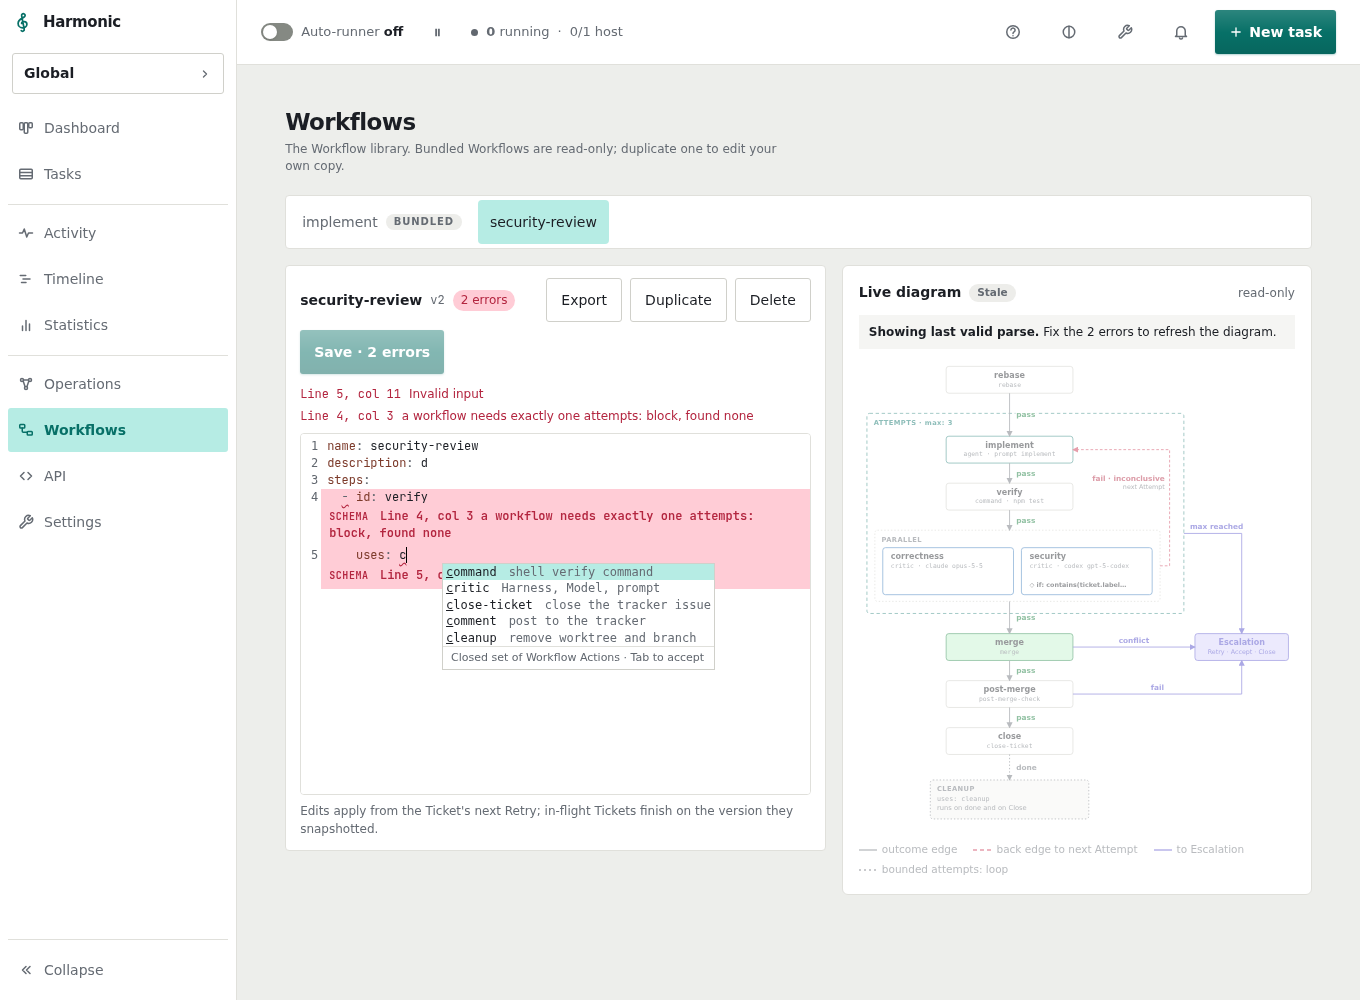
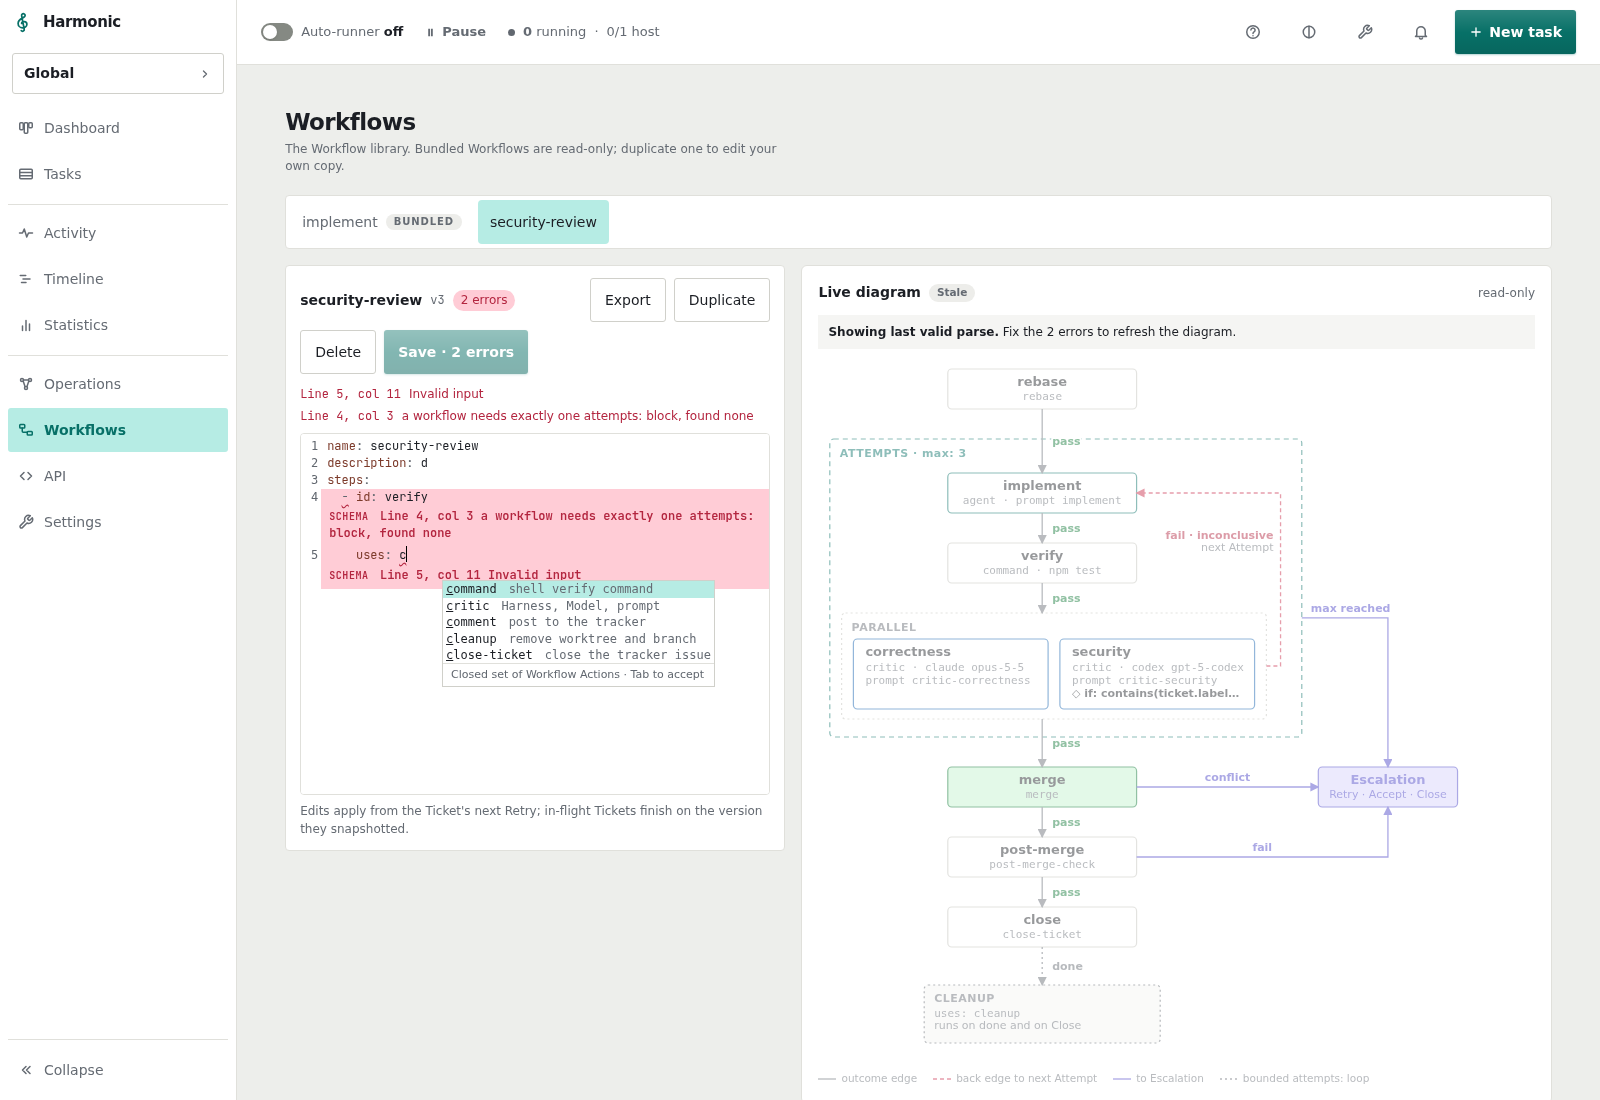
fix(workflows): diagram at natural size, critic prompt line, mockup completion order (#920)

diff --git a/web/src/components/WorkflowDiagram.tsx b/web/src/components/WorkflowDiagram.tsx
@@ -34,30 +34,30 @@ function NodeBox({ p }: { p: PlacedNode }) {
     <g data-node={node.id} data-kind={node.kind}>
       <rect x={x} y={y} width={width} height={height} rx={4} fill={fill} stroke={stroke} strokeDasharray={dash} strokeWidth={1.2} />
       {group ? (
-        <text x={x + 10} y={y + 18} fontSize={10} fontWeight={700} letterSpacing={0.6} fill={node.kind === 'attempts' ? 'var(--hm-accent)' : 'var(--hm-muted)'}>
+        <text x={x + 10} y={y + 18} fontSize={11} fontWeight={600} letterSpacing={0.5} fill={node.kind === 'attempts' ? 'var(--hm-accent)' : 'var(--hm-muted)'}>
           {node.kind === 'attempts' ? `ATTEMPTS${node.detail ? ` · ${node.detail}` : ''}` : 'PARALLEL'}
         </text>
       ) : node.kind === 'cleanup' ? (
         <>
-          <text x={x + 10} y={y + 17} fontSize={10} fontWeight={700} letterSpacing={0.6} fill="var(--hm-muted)">CLEANUP</text>
+          <text x={x + 10} y={y + 17} fontSize={11} fontWeight={600} letterSpacing={0.5} fill="var(--hm-muted)">CLEANUP</text>
           {(node.detail ?? '').split('\n').map((line, i) => (
-            <text key={line + i} x={x + 10} y={y + 32 + i * 12} fontSize={10} fontFamily={mono} fill="var(--hm-muted)">{line}</text>
+            <text key={line + i} x={x + 10} y={y + 32 + i * 12} fontSize={11} fontFamily={mono} fill="var(--hm-muted)">{line}</text>
           ))}
-          <text x={x + 10} y={y + 32 + Math.max(1, (node.detail ?? '').split('\n').length) * 12} fontSize={10} fill="var(--hm-faint)">runs on done and on Close</text>
+          <text x={x + 10} y={y + 32 + Math.max(1, (node.detail ?? '').split('\n').length) * 12} fontSize={11} fill="var(--hm-faint)">runs on done and on Close</text>
         </>
       ) : p.inParallel ? (
         <>
-          <text x={x + 12} y={y + 17} fontSize={12} fontWeight={700} fill="var(--hm-ink)">{node.label}</text>
+          <text x={x + 12} y={y + 17} fontSize={13} fontWeight={600} fill="var(--hm-ink)">{node.label}</text>
           {(node.detail ?? '').split('\n').map((line, i) => (
-            <text key={line + i} x={x + 12} y={y + 31 + i * 13} fontSize={9.5} fontFamily={mono} fill="var(--hm-muted)">{line}</text>
+            <text key={line + i} x={x + 12} y={y + 32 + i * 13} fontSize={11} fontFamily={mono} fill="var(--hm-muted)">{line}</text>
           ))}
-          {node.condition && <text x={x + 12} y={y + height - 12} fontSize={9.5} fontWeight={700} fill="var(--hm-ink)">{`◇ if: ${conditionLabel(node.condition)}`}</text>}
+          {node.condition && <text x={x + 12} y={y + height - 12} fontSize={11} fontWeight={700} fill="var(--hm-ink)">{`◇ if: ${conditionLabel(node.condition)}`}</text>}
         </>
       ) : (
         <>
-          <text x={cx} y={y + (node.detail ? 17 : height / 2 + 4)} textAnchor="middle" fontSize={12} fontWeight={700} fill={node.kind === 'escalation' ? 'var(--hm-await)' : 'var(--hm-ink)'}>{node.label}</text>
-          {node.detail && <text x={cx} y={y + 30} textAnchor="middle" fontSize={9.5} fontFamily={node.kind === 'escalation' ? undefined : mono} fill={node.kind === 'escalation' ? 'var(--hm-await)' : 'var(--hm-muted)'}>{node.detail}</text>}
-          {node.condition && <text x={cx} y={y + 44} textAnchor="middle" fontSize={9.5} fontWeight={700} fill="var(--hm-ink)">{`◇ if: ${conditionLabel(node.condition)}`}</text>}
+          <text x={cx} y={y + (node.detail ? 17 : height / 2 + 4)} textAnchor="middle" fontSize={13} fontWeight={600} fill={node.kind === 'escalation' ? 'var(--hm-await)' : 'var(--hm-ink)'}>{node.label}</text>
+          {node.detail && <text x={cx} y={y + 31} textAnchor="middle" fontSize={11} fontFamily={node.kind === 'escalation' ? undefined : mono} fill={node.kind === 'escalation' ? 'var(--hm-await)' : 'var(--hm-muted)'}>{node.detail}</text>}
+          {node.condition && <text x={cx} y={y + 44} textAnchor="middle" fontSize={11} fontWeight={700} fill="var(--hm-ink)">{`◇ if: ${conditionLabel(node.condition)}`}</text>}
         </>
       )}
     </g>
@@ -74,7 +74,7 @@ function EdgePath({ p }: { p: PlacedEdge }) {
     <g data-edge={`${p.edge.from}>${p.edge.to}`} data-kind={p.edge.kind}>
       <path d={d} fill="none" stroke={style.stroke} strokeDasharray={style.dash} strokeWidth={1.3} markerEnd={`url(#wfd-arrow-${p.edge.kind})`} />
       {p.label && <text x={p.label.x} y={p.label.y} textAnchor={p.label.anchor} fontSize={11} fontWeight={700} fill={style.text} style={HALO}>{p.label.text}</text>}
-      {p.subLabel && <text x={p.subLabel.x} y={p.subLabel.y} textAnchor={p.subLabel.anchor} fontSize={9.5} fill="var(--hm-muted)" style={HALO}>{p.subLabel.text}</text>}
+      {p.subLabel && <text x={p.subLabel.x} y={p.subLabel.y} textAnchor={p.subLabel.anchor} fontSize={11} fill="var(--hm-muted)" style={HALO}>{p.subLabel.text}</text>}
     </g>
   );
 }
@@ -140,7 +140,7 @@ export function WorkflowDiagram({ model, stale, errorCount }: { model: WorkflowD
         {!model ? (
           <p style={{ margin: 0, fontSize: 12, color: 'var(--hm-muted)' }}>Nothing to draw yet.</p>
         ) : ready ? (
-          <svg role="img" aria-label="Workflow step diagram graphic" width="100%" style={{ maxWidth: ready.width, display: 'block' }} viewBox={`0 0 ${ready.width} ${ready.height}`}>
+          <svg role="img" aria-label="Workflow step diagram graphic" width={ready.width} height={ready.height} style={{ display: 'block', flex: 'none' }} viewBox={`0 0 ${ready.width} ${ready.height}`}>
             <defs>
               {(Object.keys(EDGE_STYLE) as DiagramEdgeKind[]).map((k) => (
                 <marker key={k} id={`wfd-arrow-${k}`} viewBox="0 0 8 8" refX={7} refY={4} markerWidth={7} markerHeight={7} orient="auto">

diff --git a/tests/workflow-diagram.test.ts b/tests/workflow-diagram.test.ts
@@ -68,7 +68,7 @@ describe('buildWorkflowDiagram', () => {
       'merge:step:',
       'escalation:escalation:',
     ]);
-    expect(m.nodes.find((n) => n.id === 'review')?.detail).toBe('critic · claude claude-sonnet-5-5');
+    expect(m.nodes.find((n) => n.id === 'review')?.detail).toBe('critic · claude claude-sonnet-5-5\nprompt Review it.');
     expect(edgeKeys(IMPLEMENT)).toEqual([
       'rebase>build:outcome:pass',
       'build>verify:outcome:pass',
@@ -86,7 +86,7 @@ describe('buildWorkflowDiagram', () => {
     expect(group?.kind).toBe('parallel');
     expect(group?.parent).toBe('attempts');
     const security = m.nodes.find((n) => n.id === 'security');
-    expect(security).toMatchObject({ parent: 'checks', condition: "${{ contains(ticket.labels, 'security') }}", detail: 'critic · codex gpt-5-codex' });
+    expect(security).toMatchObject({ parent: 'checks', condition: "${{ contains(ticket.labels, 'security') }}", detail: 'critic · codex gpt-5-codex\nprompt critic-security' });
     expect(m.nodes.find((n) => n.id === 'verify')?.detail).toBe('command · npm test');
     const edges = edgeKeys(PARALLEL);
     expect(edges).toContain('verify>checks:outcome:pass');

diff --git a/src/domain/workflow-completion.ts b/src/domain/workflow-completion.ts
@@ -25,6 +25,12 @@ const ACTION_DETAIL: Record<(typeof WORKFLOW_ACTIONS)[number], string> = {
   cleanup: 'remove worktree and branch',
 };
 
+const ACTION_ORDER: readonly (typeof WORKFLOW_ACTIONS)[number][] = ['command', 'critic', 'comment', 'cleanup', 'close-ticket'];
+const actionRank = (a: string): number => {
+  const i = (ACTION_ORDER as readonly string[]).indexOf(a);
+  return i === -1 ? ACTION_ORDER.length : i;
+};
+
 const STEP_KEYS: WorkflowCompletionOption[] = [
   { label: 'id', detail: 'unique step name' },
   { label: 'uses', detail: 'a Workflow Action' },
@@ -107,7 +113,7 @@ export function completeWorkflow(text: string, offset: number): WorkflowCompleti
   const uses = USES_LINE.exec(upToCursor);
   if (uses) {
     const typed = uses[1]!;
-    const options = WORKFLOW_ACTIONS.filter((a) => a.startsWith(typed) && a !== typed).map((label) => ({ label, detail: ACTION_DETAIL[label] }));
+    const options = [...WORKFLOW_ACTIONS].sort((a, b) => actionRank(a) - actionRank(b)).filter((a) => a.startsWith(typed) && a !== typed).map((label) => ({ label, detail: ACTION_DETAIL[label] }));
     return options.length ? { from: offset - typed.length, options } : null;
   }
 

diff --git a/src/domain/workflow-diagram.ts b/src/domain/workflow-diagram.ts
@@ -18,7 +18,9 @@ function stepDetail(step: WorkflowStepDefinition): string | undefined {
     : uses === 'critic' ? [text(w.harness), text(w.model)].filter((p) => p !== undefined).join(' ')
     : uses === 'agent' && text(w.prompt) !== undefined ? `prompt ${text(w.prompt)}`
     : undefined;
-  return tail ? `${uses} · ${tail}` : uses;
+  const head = tail ? `${uses} · ${tail}` : uses;
+  const prompt = uses === 'critic' ? text(w.prompt) : undefined;
+  return prompt !== undefined ? `${head}\nprompt ${prompt}` : head;
 }
 
 function stepNode(step: WorkflowStepDefinition, parent?: string): DiagramNode {

diff --git a/web/src/workflow-diagram-layout.ts b/web/src/workflow-diagram-layout.ts
@@ -5,7 +5,7 @@ export interface PlacedLabel { x: number; y: number; anchor: 'start' | 'middle' 
 export interface PlacedEdge { edge: DiagramEdge; points: { x: number; y: number }[]; label?: PlacedLabel; subLabel?: PlacedLabel }
 export interface DiagramLayout { nodes: PlacedNode[]; edges: PlacedEdge[]; width: number; height: number }
 
-/** Horizontal stretch applied to the whole layout so node text fits; the geometry below is in the unstretched units of the #920 mockup. */
+/** Horizontal stretch so node text fits at natural size. */
 const SX = 1.18;
 const CX = 190;
 const STEP_W = 160;

diff --git a/tests/workflow-completion.test.ts b/tests/workflow-completion.test.ts
@@ -9,7 +9,7 @@ describe('completeWorkflow', () => {
     const text = 'steps:\n  - id: a\n    uses: c';
     const hit = at(text)!;
     expect(hit.from).toBe(text.length - 1);
-    expect(hit.options.map((o) => o.label)).toEqual(['command', 'critic', 'close-ticket', 'comment', 'cleanup']);
+    expect(hit.options.map((o) => o.label)).toEqual(['command', 'critic', 'comment', 'cleanup', 'close-ticket']);
     expect(hit.options.find((o) => o.label === 'command')!.detail).toBe('shell verify command');
     expect(labels('steps:\n  - uses: ')).toHaveLength(12);
   });

diff --git a/web/src/components/workflows/WorkflowEditor.tsx b/web/src/components/workflows/WorkflowEditor.tsx
@@ -110,7 +110,7 @@ function EditorBody({
   };
 
   return (
-    <div className="grid grid-cols-1 items-start gap-4 lg:grid-cols-[minmax(0,1.15fr)_minmax(0,1fr)]">
+    <div className="grid grid-cols-1 items-start gap-4 lg:grid-cols-[minmax(360px,1fr)_minmax(0,1.5fr)]">
     <section className="min-w-0 rounded-lg bg-surface pb-3 shadow-card" aria-label={`Workflow ${doc.name}`}>
       <div className="flex flex-wrap items-center gap-x-3 gap-y-2 px-3.5 py-3">
         <h2 className={sectionTitle}>{doc.name}</h2>
